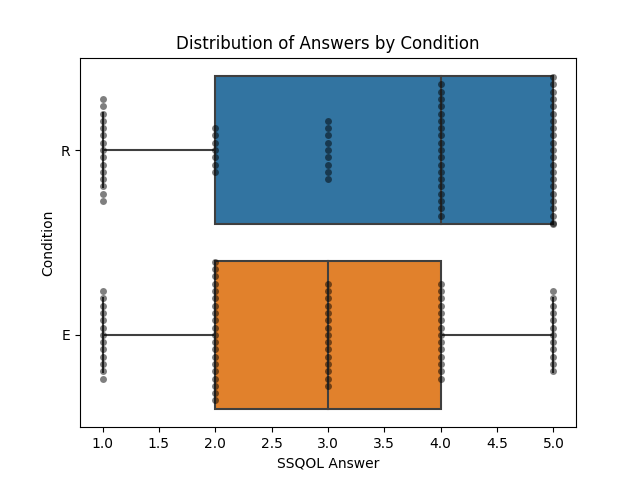
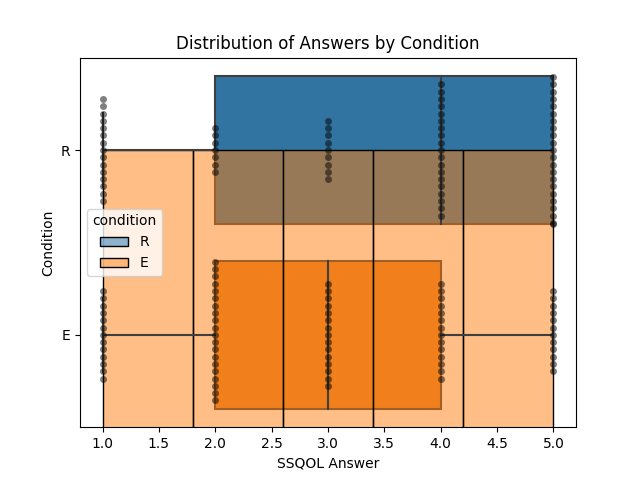
update

diff --git a/Plots.py b/Plots.py
@@ -87,6 +87,7 @@ answerDistributionHistplot = sns.histplot(data=df, x='answer', hue='condition', 
 plt.title('Distribution of Answers by Condition')
 plt.xlabel('Answer')
 plt.ylabel('Count')
+plt.savefig('answerDistributionHistplot.png', dpi=300)
 #plt.show()
 
 # Plot answers distribution by condition using boxplot
@@ -95,7 +96,7 @@ answerDistributionSwarnPlot = sns.swarmplot(data=df, x='answer', y="condition", 
 plt.title('Distribution of Answers by Condition')
 plt.xlabel('SSQOL Answer')
 plt.ylabel('Condition')
-#plt.savefig('answerDistributionPrConditionBoxplot.png')
+plt.savefig('answerDistributionPrConditionBoxplot.png')
 #plt.show()
 
 # Plot answers per user id
@@ -105,8 +106,32 @@ plt.title('Distribution of Answers by Paricipant')
 plt.xlabel('SSQOL Answer')
 plt.ylabel('Participant')
 plt.savefig('answerDistributionBoxplot.png')
-#plt.show()
+plt.show()
 
-# 2nd plot for answers per user id
-#sns.lineplot(x='question', y='answer', hue='user_id', data=df)
-#plt.show()
+# Plots for the MEDx poster
+sns.set_style("ticks")
+ViolinplotsPerParticipantPoster = sns.violinplot(data=df, x="user_id", y="answer", hue="condition",
+               split=True, inner="quart", linewidth=2,
+               palette=custom_palette)
+#sns.despine(left=True)
+plt.xlabel('Participant no.')
+plt.ylabel('Likert-scale answer frequency')
+plt.ylim(1, 5)
+# Access the legend object
+legend = ViolinplotsPerParticipantPoster.legend_
+# Change the legend title
+legend.set_title("Conditions")
+plt.yticks(range(1, 6))
+plt.savefig('ViolinplotsPerParticipantPoster.png', dpi=300)
+plt.show()
+
+# Plot the rushing
+rushingPlotPoster = sns.lineplot(x='question', y='seconds-per-item', hue='user_id', data=dfrush, legend=True, palette=custom_palette)
+# Access the legend object
+legend = rushingPlotPoster.legend_
+# Change the legend title
+legend.set_title("Participants")
+plt.xlabel('SS-QOL questions (1-49)')
+plt.ylabel('Time per question (s)')
+plt.savefig('rushingPlotPoster.png', dpi=300)
+plt.show()
